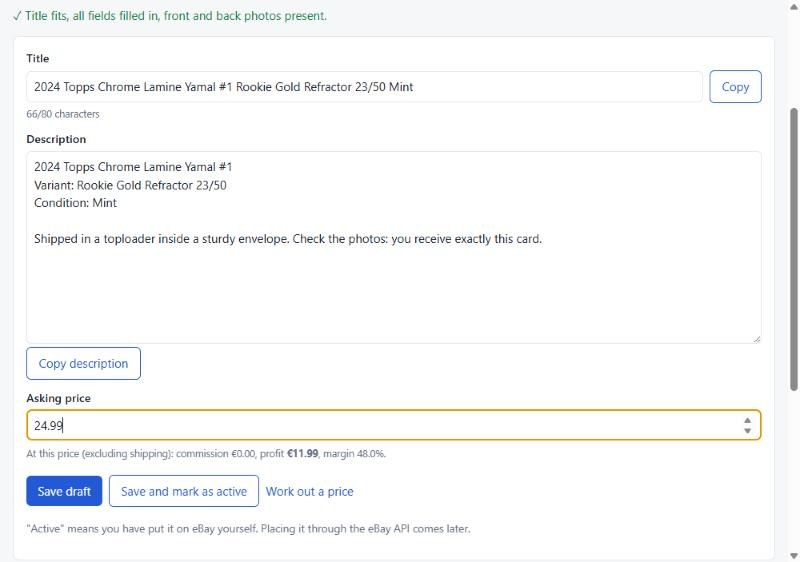
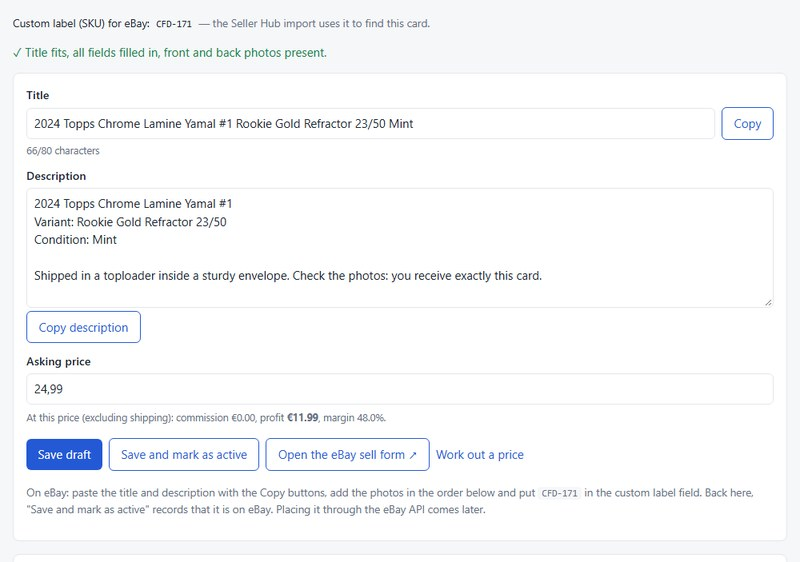
Refresh the listing generator screenshot with the eBay sell form button

diff --git a/README.md b/README.md
@@ -18,7 +18,7 @@ when eBay goes down.
 |---|---|
 | ![Charts](docs/screenshots/02-dashboard-charts.jpg) **Dashboard:** revenue and profit per month, margin per set, fastest and slowest sellers | ![Inventory](docs/screenshots/03-inventory.jpg) **Inventory:** filters (also by variant), main photo, variants, condition, age with colour and label |
 | ![Card form](docs/screenshots/04-card-form.jpg) **Card form:** several variants per card; the parallel name and serial number appear when Parallel is ticked | ![Photos](docs/screenshots/05-photos.jpg) **Photos:** front and back, main photo, ordering, checklist |
-| ![Listing generator](docs/screenshots/06-listing-generator.jpg) **Listing generator:** title of at most 80 characters with the variants, checks, profit at the asking price | ![Needs attention](docs/screenshots/07-attention.jpg) **Needs attention:** a suggestion per card; a price drop shows the new profit straight away |
+| ![Listing generator](docs/screenshots/06-listing-generator.jpg) **Listing generator:** title of at most 80 characters with the variants, checks, profit at the asking price, the SKU and a button to the eBay sell form | ![Needs attention](docs/screenshots/07-attention.jpg) **Needs attention:** a suggestion per card; a price drop shows the new profit straight away |
 | ![Calculator](docs/screenshots/08-calculator.jpg) **Calculator:** from price to profit and from profit to price; a shipping method fills in the shipping cost | ![Fee profiles](docs/screenshots/14-fees.jpg) **Fees:** fee profiles per category with a valid-from date; the starter profile is for a private seller on eBay.de |
 | ![Shipping methods](docs/screenshots/10-shipping.jpg) **Shipping methods:** Deutsche Post and DHL prices to start with, editable | ![Edit a shipping method](docs/screenshots/13-shipping-edit.jpg) **Edit a shipping method:** change a price when DHL or Deutsche Post does; past sales keep their amounts |
 | ![Price advice](docs/screenshots/11-price-advice.jpg) **Price advice:** open eBay's sold items, paste the prices and get a suggested price; no API keys needed | ![eBay connection](docs/screenshots/15-ebay.jpg) **eBay connection:** status of the API keys and the account link; price advice works without keys |
